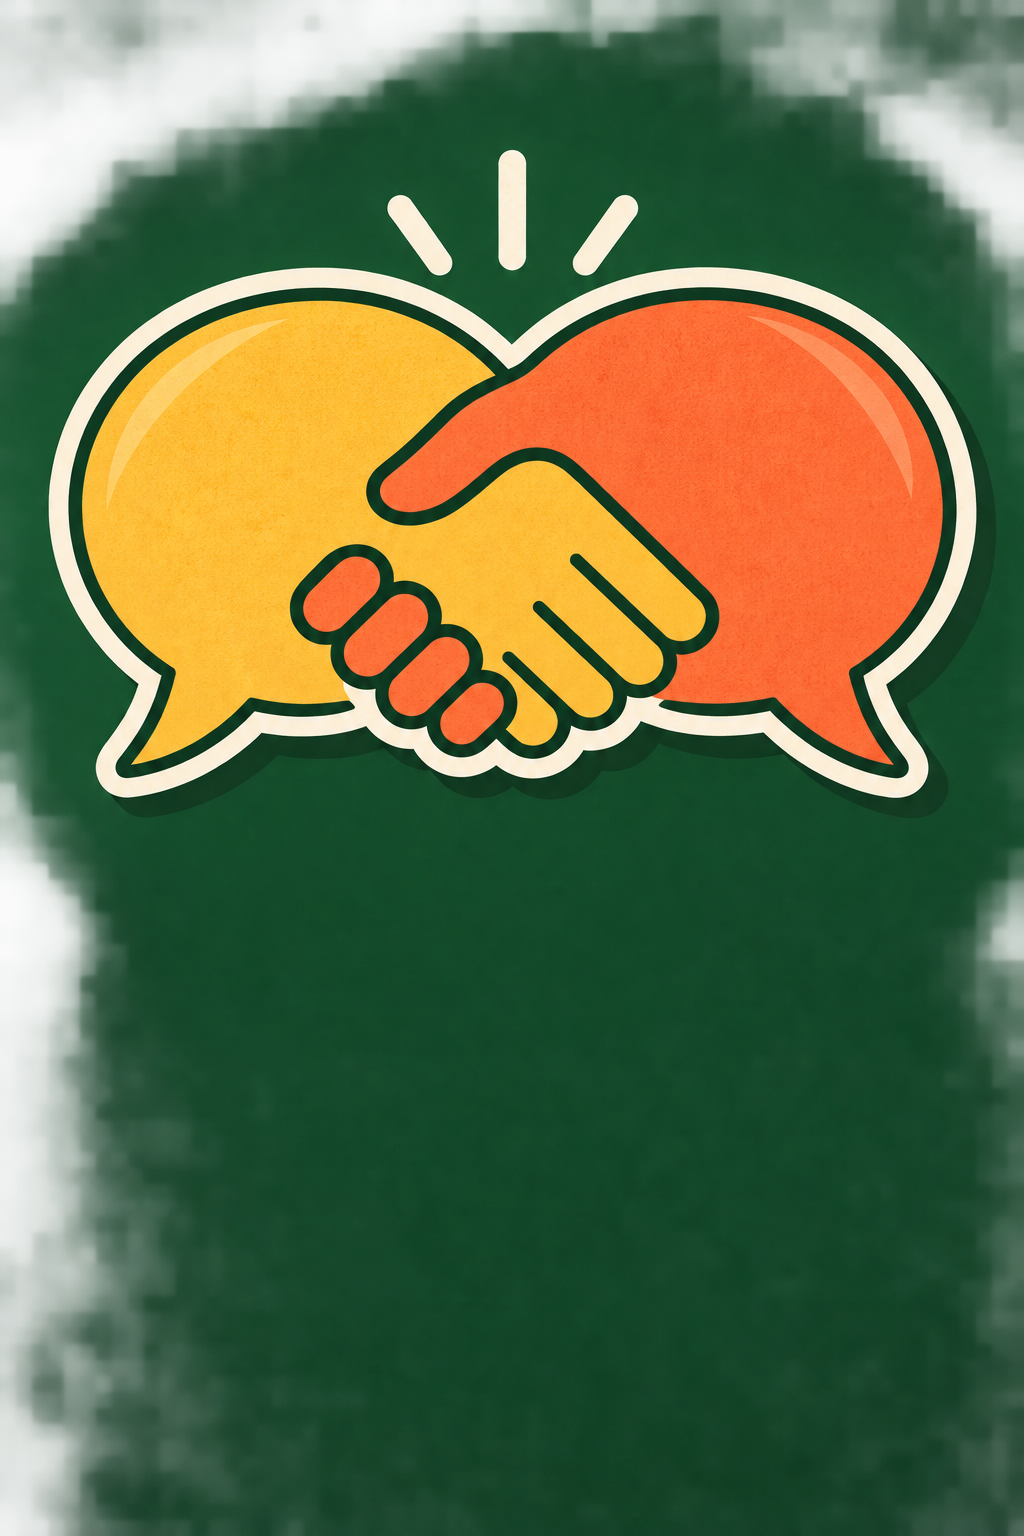
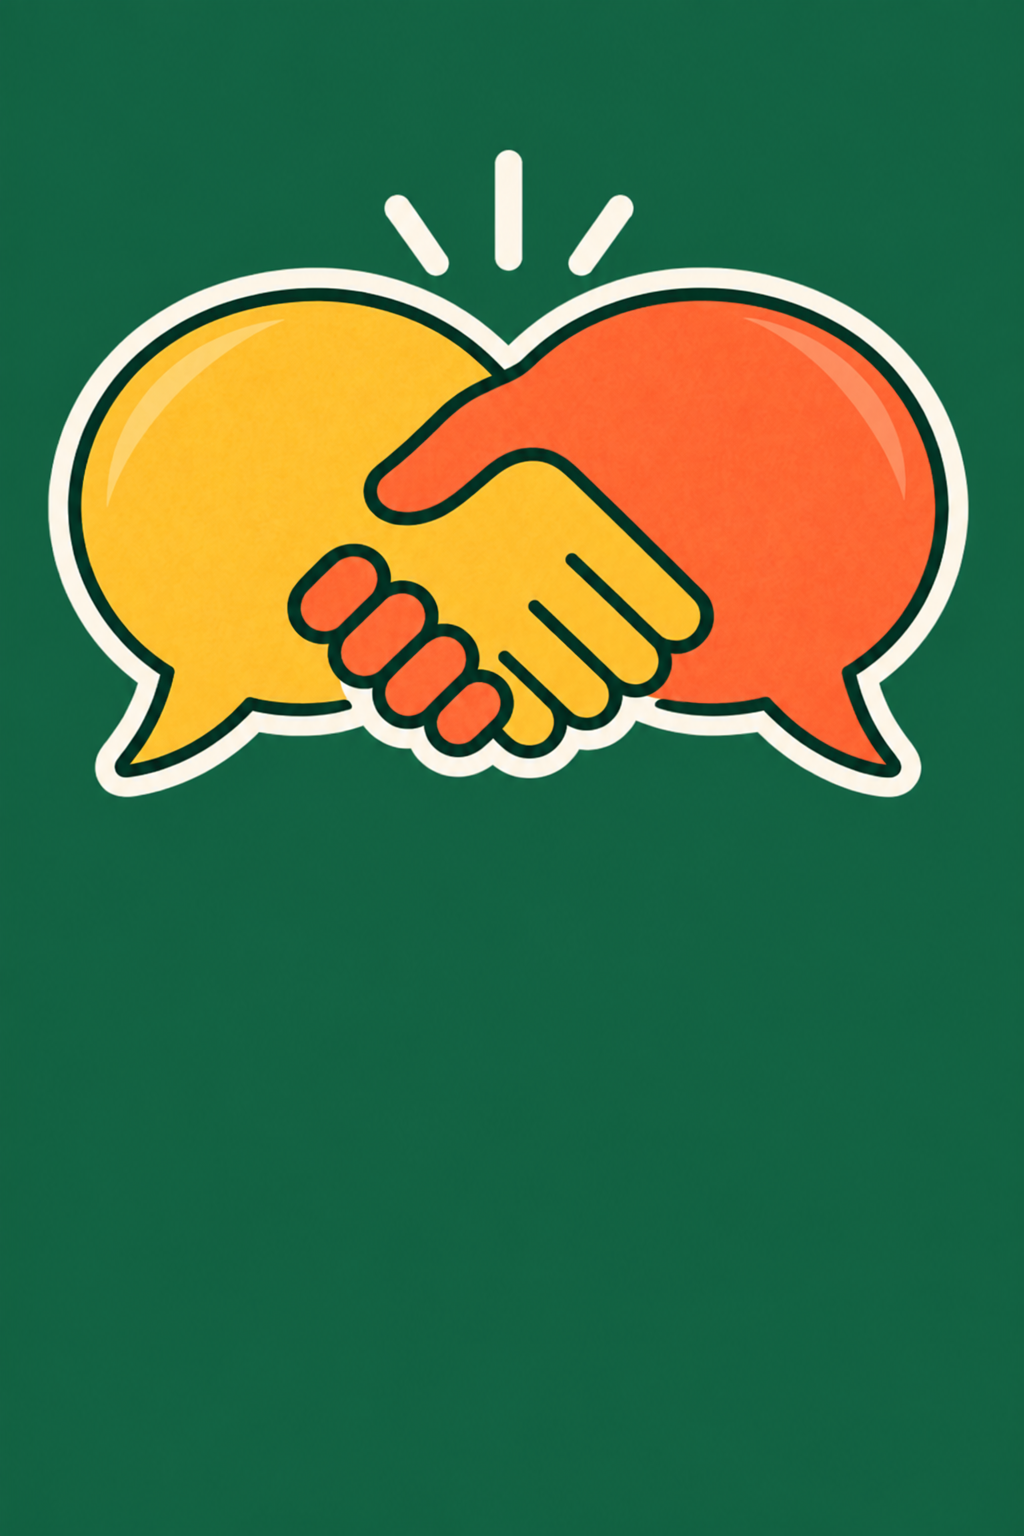
Reuse AI reading handoffs and clean up book cover backgrounds

diff --git a/layouts/reading/book.html b/layouts/reading/book.html
@@ -7,19 +7,14 @@
     {{ partial "reading-cover.html" $entry }}
     <div><p class="reading-eyebrow">{{ if eq .Params.readingStatus "shelf" }}On the shelf · To read{{ else if .Params.partial }}Partially read{{ else }}From my past reads{{ end }}</p><h1>{{ .Title }}</h1><p class="reading-byline">{{ .Params.bookAuthor }} · {{ .Params.bookYear }}</p>
       <a class="reading-primary" href="/reading/focus/?book={{ .Params.bookId }}">Speed read ↗</a>
-      <a class="reading-secondary" href="#my-question">Use with my question ↓</a>
+      <a class="reading-secondary" href="#my-question">Personalize with AI ↓</a>
     </div>
   </header>
   <div class="reading-disclosure"><strong>{{ if eq .Params.editorialSourceLabel "Answer with Books editorial digest" }}Editorial digest{{ else }}Short reading guide{{ end }}</strong><p>An orientation to the book—not its original text or Terry’s personal notes.</p></div>
   <div class="post-content">{{ .Content }}</div>
   <section class="reading-source"><h2>Reading source</h2><a href="{{ .Params.editorialSource }}" target="_blank" rel="noopener noreferrer">{{ .Params.editorialSourceLabel }} ↗</a></section>
   {{ if and .Params.personalNotes (not (in .Params.personalNotes "Notes coming soon")) }}<section class="post-content"><h2>My notes</h2>{{ .Params.personalNotes | markdownify }}</section>{{ end }}
-  <section id="my-question" class="reading-question" data-book-title="{{ .Title }}" data-book-url="https://chenterry.com{{ .RelPermalink }}">
-    <h2>Read with a question in mind</h2><p>Make a prompt to use with your preferred AI. Nothing is sent automatically.</p>
-    <label for="reading-question">What’s top of mind?</label><textarea id="reading-question" rows="3" placeholder="For example: how can I test this idea before committing?" maxlength="2000"></textarea>
-    <button class="reading-primary" type="button" id="copy-reading-prompt">Copy reading prompt</button><p id="reading-prompt-status" role="status"></p>
-    <textarea id="reading-prompt-fallback" rows="8" readonly hidden aria-label="Reading prompt to copy"></textarea>
-  </section>
+  {{ partial "reading-personalizer.html" . }}
 </article>
 <style>
 .reading-back{display:inline-block;color:var(--secondary);margin:0 0 32px;font-size:14px}
@@ -31,11 +26,7 @@
 .reading-secondary{display:block;margin-top:12px;font-size:13px;color:var(--secondary)}
 .reading-disclosure{border-block:1px solid var(--border);padding:16px 0;margin-bottom:32px;font-size:13px;color:var(--secondary)}
 .reading-disclosure p{margin:4px 0 0}.reading-source{border-top:1px solid var(--border);padding:24px 0;margin-top:32px}.reading-source h2{font-size:18px;margin-bottom:8px}.reading-source a{text-decoration:underline;color:var(--secondary);font-size:14px}
-.reading-question{background:var(--entry);border:1px solid var(--border);border-radius:14px;padding:24px;margin-top:24px;scroll-margin-top:24px}.reading-question h2{font-size:22px}.reading-question p{color:var(--secondary);font-size:14px;margin:8px 0 16px}.reading-question label{display:block;font-size:14px;font-weight:600;margin:16px 0 8px}.reading-question textarea{display:block;box-sizing:border-box;width:100%;padding:12px;border:1px solid var(--border);border-radius:8px;background:var(--theme);color:var(--primary);font:inherit;font-size:15px;margin:0 0 14px;resize:vertical}.reading-question textarea[hidden]{display:none}
 .awb-line-illustration svg{width:100%;height:auto;fill:var(--primary);font-size:13px}.awb-line-illustration__line{fill:none;stroke:var(--secondary);stroke-width:2}.awb-line-illustration figcaption{color:var(--secondary);font-size:13px}
-@media(max-width:500px){.reading-book-header{grid-template-columns:115px 1fr;gap:20px}.reading-book-header h1{font-size:25px}.reading-book-header .reading-art-caption strong{font-size:12px}.reading-book-header .reading-art-caption span{font-size:9px}.reading-question{padding:18px}.reading-byline{font-size:14px}}
+@media(max-width:500px){.reading-book-header{grid-template-columns:115px 1fr;gap:20px}.reading-book-header h1{font-size:25px}.reading-book-header .reading-art-caption strong{font-size:12px}.reading-book-header .reading-art-caption span{font-size:9px}.reading-byline{font-size:14px}}
 </style>
-<script>
-(()=>{const section=document.getElementById('my-question');const field=document.getElementById('reading-question');const status=document.getElementById('reading-prompt-status');document.getElementById('copy-reading-prompt').addEventListener('click',async()=>{const question=field.value.trim();if(!question){status.textContent='Add your question first.';field.focus();return;}const prompt=`My question: ${question}\n\nHelp me think about this using ${section.dataset.bookTitle}. Reading guide: ${section.dataset.bookUrl}\n\nIf you can access the guide, use it; otherwise ask me to paste it. Separate the book's ideas from your own applications, do not invent quotations, and suggest one concrete next step. Flag where the guide is too brief to support an answer.`;try{await navigator.clipboard.writeText(prompt);status.textContent='Copied. Paste it into your preferred AI.';}catch{const fallback=document.getElementById('reading-prompt-fallback');fallback.hidden=false;fallback.value=prompt;fallback.focus();fallback.select();status.textContent='Select and copy the prompt below.';}});})();
-</script>
 {{ end }}

diff --git a/layouts/partials/reading-personalizer.html b/layouts/partials/reading-personalizer.html
@@ -1,0 +1,26 @@
+{{ $handoff := site.Data.reading_ai_handoff }}
+{{ $prompt := replace $handoff.promptTemplate "${title}" .Title }}
+{{ $prompt = replace $prompt "${author}" .Params.bookAuthor }}
+{{ $prompt = replace $prompt "${bookUrl}" (printf "https://chenterry.com%s" .RelPermalink) }}
+{{ $prompt = replace $prompt "${skillUrl}" $handoff.skillUrl }}
+{{ $prompt = printf "%s\n\nApply the Book URL Contract to this chenterry.com reading guide. It is an editorial orientation, not the full book or Terry's personal notes. Do not overstate its coverage or invent quotations. If you cannot access the guide, ask me to paste it. Distinguish source ideas from your own applications, and never invent personal context." $prompt }}
+<section id="my-question" class="reading-personalizer" data-book-personalizer>
+ <div class="personalizer-layout">
+  <div><p class="personalizer-eyebrow">Personalize</p><h2>Connect this book to your experience.</h2><p class="personalizer-description">Read it in scope of your own experience. Select the ideas that matter to you, connect them to your context, and turn them into something you can use.</p></div>
+  <div class="personalizer-actions"><p class="personalizer-eyebrow">Open in</p>
+   <div class="personalizer-providers" role="group" aria-label="Choose your preferred AI">
+    {{ range $handoff.providers }}<button type="button" data-ai-provider="{{ .id }}" data-ai-url="{{ .url }}" aria-label="{{ .label }}" title="{{ .label }}"><img src="{{ .icon }}" alt="" width="28" height="28"></button>{{ end }}
+   </div>
+   <a class="personalizer-go" href="https://chatgpt.com/" target="_blank" rel="noopener noreferrer" data-personalize-button>Personalize in ChatGPT</a>
+  </div>
+ </div>
+ <p class="personalizer-status" data-personalize-status aria-live="polite">Your choice is remembered. Personalization follows the <a href="{{ $handoff.skillUrl }}" target="_blank" rel="noopener noreferrer">Answer with Books skill</a>.</p>
+ <p class="personalizer-privacy">Opens your chosen AI with the book prompt. Nothing is sent until you click.</p>
+ <details class="personalizer-fallback"><summary>View or copy prompt</summary><textarea readonly rows="9" aria-label="Personalized reading prompt" data-personalize-prompt>{{ $prompt }}</textarea></details>
+</section>
+{{ $version := md5 (readFile "static/reading-ai/personalizer.js") }}
+<script type="module" src="/reading-ai/personalizer.js?v={{ $version }}"></script>
+<style>
+.reading-personalizer{padding:28px;border-radius:24px;background:#242321;color:#fff;margin-top:32px;scroll-margin-top:24px}.personalizer-layout{display:grid;grid-template-columns:minmax(0,1fr) 250px;align-items:center;gap:30px}.reading-personalizer h2{font:500 32px/1.15 Georgia,serif;margin:12px 0 16px;color:#fff}.personalizer-eyebrow{font:600 11px/1.4 system-ui;letter-spacing:.12em;text-transform:uppercase;color:#fff9;margin:0}.personalizer-description{font-size:15px;line-height:1.6;color:#fffb;margin:0}.personalizer-providers{display:flex;gap:10px;margin:14px 0}.personalizer-providers button{display:grid;place-items:center;width:54px;height:54px;border-radius:12px;background:#fff;border:2px solid transparent;cursor:pointer;padding:10px;opacity:.65}.personalizer-providers button[aria-pressed=true]{opacity:1;outline:2px solid #fff9;outline-offset:3px}.personalizer-providers button:hover{opacity:1}.personalizer-providers img{width:28px;height:28px;display:block}.personalizer-go{display:block;padding:12px 14px;text-align:center;border-radius:999px;background:#fff;color:#242321;font:600 14px/1.4 system-ui}.personalizer-go:focus-visible,.personalizer-providers button:focus-visible{outline:3px solid #fed876;outline-offset:4px}.personalizer-status{font-size:13px;line-height:1.5;color:#fff9;min-height:20px;margin:22px 0 0}.personalizer-status a{text-decoration:underline}.personalizer-privacy{font-size:11px;line-height:1.5;color:#fff9;margin:10px 0 0}.reading-personalizer [hidden]{display:none!important}@media(max-width:760px){.personalizer-layout{grid-template-columns:1fr;gap:24px}.personalizer-actions{max-width:280px}.reading-personalizer{padding:22px}.reading-personalizer h2{font-size:28px}}
+.personalizer-fallback{margin-top:12px;font-size:12px;color:#fff9}.personalizer-fallback summary{cursor:pointer}.personalizer-fallback textarea{width:100%;padding:12px;margin-top:12px;border:1px solid #fff5;border-radius:8px;background:#fff;color:#242321;font:13px/1.5 system-ui;resize:vertical;box-sizing:border-box}
+</style>

diff --git a/static/reading-ai/personalizer.js b/static/reading-ai/personalizer.js
@@ -1,0 +1,66 @@
+// Generated from AWB BookDigestPersonalizer.astro; run scripts/sync-book-personalizer.mjs.
+const root = document.querySelector("[data-book-personalizer]");
+if (root) {
+  const storageKey = "awb:preferred-ai";
+  const options = Array.from(root.querySelectorAll("[data-ai-provider]"));
+  const action = root.querySelector("[data-personalize-button]");
+  const prompt = root.querySelector("[data-personalize-prompt]");
+  const status = root.querySelector("[data-personalize-status]");
+  const providerName = (provider) => provider === "chatgpt" ? "ChatGPT" : provider.charAt(0).toUpperCase() + provider.slice(1);
+  const supportsPromptLink = (provider) => ["chatgpt", "claude", "grok"].includes(provider);
+  const destinationFor = (provider, baseUrl, promptText) => {
+    const destination = new URL(baseUrl);
+    if (supportsPromptLink(provider)) destination.searchParams.set("q", promptText);
+    return destination.toString();
+  };
+  const paint = (provider) => {
+    const selected = options.find((option) => option.dataset.aiProvider === provider) ?? options[0];
+    options.forEach((option) => {
+      const active = option === selected;
+      option.setAttribute("aria-pressed", String(active));
+      option.classList.toggle("border-white", active);
+      option.classList.toggle("ring-2", active);
+      option.classList.toggle("ring-white/35", active);
+      option.classList.toggle("ring-offset-2", active);
+      option.classList.toggle("ring-offset-ink", active);
+      option.classList.toggle("opacity-65", !active);
+    });
+    if (action && selected) {
+      action.dataset.selectedProvider = selected.dataset.aiProvider;
+      action.dataset.selectedUrl = selected.dataset.aiUrl;
+      action.href = destinationFor(
+        selected.dataset.aiProvider ?? "chatgpt",
+        selected.dataset.aiUrl ?? "https://chatgpt.com/",
+        prompt?.textContent ?? ""
+      );
+      action.textContent = `Personalize in ${providerName(selected.dataset.aiProvider ?? "chatgpt")}`;
+    }
+  };
+  let savedProvider = "chatgpt";
+  try {
+    savedProvider = localStorage.getItem(storageKey) ?? savedProvider;
+  } catch {
+  }
+  paint(savedProvider);
+  options.forEach((option) => option.addEventListener("click", () => {
+    const provider = option.dataset.aiProvider ?? "chatgpt";
+    try {
+      localStorage.setItem(storageKey, provider);
+    } catch {
+    }
+    paint(provider);
+    if (status) status.textContent = `${providerName(provider)} will open when you personalize.`;
+  }));
+  action?.addEventListener("click", async () => {
+    if (!prompt) return;
+    const provider = action.dataset.selectedProvider ?? "chatgpt";
+    try {
+      await navigator.clipboard.writeText(prompt.textContent ?? "");
+      action.textContent = "Prompt copied";
+      if (status) status.textContent = supportsPromptLink(provider) ? `Opening a new ${providerName(provider)} chat with this book and the Answer with Books skill. The prompt is also copied.` : `Prompt copied. Paste it into ${providerName(provider)} to start the personalized reading.`;
+    } catch {
+      if (status) status.textContent = supportsPromptLink(provider) ? `Opening ${providerName(provider)} with the personalized reading prompt.` : "Copy was blocked. Allow clipboard access and try again.";
+    }
+    window.setTimeout(() => paint(provider), 2600);
+  });
+}

diff --git a/layouts/partials/reading-cover-styles.html b/layouts/partials/reading-cover-styles.html
@@ -11,4 +11,5 @@
 .book-meta .reading-guide-label { margin-top:5px; font-size:11px; opacity:.8; }
 @media(prefers-reduced-motion:reduce){.book-card:hover .book-cover{transform:none}}
 :is(.reading-art--yujun-product-methodology,.reading-art--the-crowd,.reading-art--the-globalization-paradox,.reading-art--disgrace,.reading-art--the-inevitable,.reading-art--outliers,.reading-art--true-demand,.reading-art--mans-search-for-meaning,.reading-art--zen-motorcycle-maintenance,.reading-art--a-culture-of-growth,.reading-art--value-zhang-lei,.reading-art--the-beginning-of-infinity) .reading-art-caption { background:none; }
+:is(.reading-art--capitalism-socialism-democracy,.reading-art--the-great-divergence,.reading-art--the-mom-test,.reading-art--how-to-win-friends,.reading-art--poor-charlies-almanack) .reading-art-caption { background:none; }
 </style>

diff --git a/scripts/READING-INTEGRATION.md b/scripts/READING-INTEGRATION.md
@@ -6,6 +6,7 @@ The Hugo reading catalog remains the source of Terry's personal reading history.
 
 - The real Answer with Books `AddBookDialog`, book matching, PDF extraction, image OCR, email validation and confirmation handler. The export route is `src/pages/embed/book-upload.astro` in the AWB web repo.
 - The existing focused reader, with this site's 31-book payload and return links.
+- The AWB `BookDigestPersonalizer` provider data, icons, prompt template and client behavior. `scripts/sync-book-personalizer.mjs` compiles its TypeScript and is run by the main import. Hugo renders a site-styled adapter with source-guide limitations and a manual-copy fallback. The generated `static/reading-ai/` assets and `data/reading_ai_handoff.json` are committed, so production builds do not require the AWB repository.
 - Four existing editorial digests and covers. Twenty-seven short, source-linked orientations are in `data/reading_guides.json` and `data/shelf_reading_guides.json`; these are not full-text books or Terry's personal notes. Original generated artwork and prompts are stored locally, with live HTML titles overlaid for legibility.
 
 ## Rebuild the shared export
@@ -20,11 +21,11 @@ The import validates that each currently included past read and shelf book has a
 
 Run `hugo --destination /tmp/chenterry-reading-preview --baseURL http://127.0.0.1:1313/`, then serve that directory on port 1313. Run `node scripts/test-reading-integration.mjs /path/to/answerwithbooks/web`. The test uses Playwright from the AWB repo and an installed Chrome; set `READING_TEST_URL` to override the preview URL.
 
-The browser test checks all 31 cards, covers and detail routes, including 20 unread-status checks; all 31 focus-reader return paths and matching for all 20 shelf titles; personalization prompt copying; required email; one-character Chinese title matching; actual PDF extraction and image OCR; mobile overflow and local asset errors. Supabase responses are mocked to test submission and local persistence without creating production requests.
+The browser test checks all 31 cards, covers and detail routes, including 20 unread-status checks; all 31 focus-reader return paths and matching for all 20 shelf titles; AI handoff prompt generation; required email; one-character Chinese title matching; actual PDF extraction and image OCR; mobile overflow and local asset errors. Supabase responses are mocked to test submission and local persistence without creating production requests.
 
 ## Data and privacy
 
-Uploads are parsed in the browser. Unknown matches can query Open Library. Confirmation sends book metadata and the required email to the existing AWB `book_requests` service using its public browser client and existing row-level security. No service-role key is bundled, and raw files are not stored. The resulting request and local browser additions are separate from Terry's public history. Existing-book confirmations link directly to a guide; new-book requests require editorial processing before a digest is ready. The copied personalization prompt is a user-controlled handoff, not an integrated LLM endpoint.
+Uploads are parsed in the browser. Unknown matches can query Open Library. Confirmation sends book metadata and the required email to the existing AWB `book_requests` service using its public browser client and existing row-level security. No service-role key is bundled, and raw files are not stored. The resulting request and local browser additions are separate from Terry's public history. Existing-book confirmations link directly to a guide; new-book requests require editorial processing before a digest is ready. The Open in AI control is a user-controlled handoff, not an integrated LLM endpoint. ChatGPT, Claude and Grok receive prompt query links as in AWB; Gemini uses a copied prompt. Provider selection is remembered on this site. Run `node scripts/test-reading-personalizer.mjs` to check all four provider handoffs, clipboard fallback, and the updated covers; provider destinations are mocked rather than sending test prompts to real AI services.
 
 ## Publishing
 

diff --git a/content/reading/library/capitalism-socialism-democracy.md b/content/reading/library/capitalism-socialism-democracy.md
@@ -12,7 +12,7 @@ editorialSourceLabel: 'Routledge: book overview'
 personalNotes: ''
 partial: false
 readingStatus: shelf
-coverArt: /images/reading-covers/capitalism-socialism-democracy.png
+coverArt: /images/reading-covers/capitalism-socialism-democracy-solid.png
 coverTitle: Capitalism & Democracy
 coverColor: '#236c71'
 hidemeta: true

diff --git a/content/reading/library/the-great-divergence.md b/content/reading/library/the-great-divergence.md
@@ -13,7 +13,7 @@ personalNotes: |
   *(Notes coming soon.)*
 partial: false
 readingStatus: read
-coverArt: /images/reading-covers/the-great-divergence.png
+coverArt: /images/reading-covers/the-great-divergence-solid.png
 coverTitle: Great Divergence
 coverColor: '#363997'
 hidemeta: true

diff --git a/content/reading/library/the-mom-test.md b/content/reading/library/the-mom-test.md
@@ -13,7 +13,7 @@ personalNotes: |
   *(Notes coming soon.)*
 partial: false
 readingStatus: read
-coverArt: /images/reading-covers/the-mom-test.jpg
+coverArt: /images/reading-covers/the-mom-test-solid.png
 coverTitle: The Mom Test
 coverColor: '#0096a6'
 hidemeta: true
